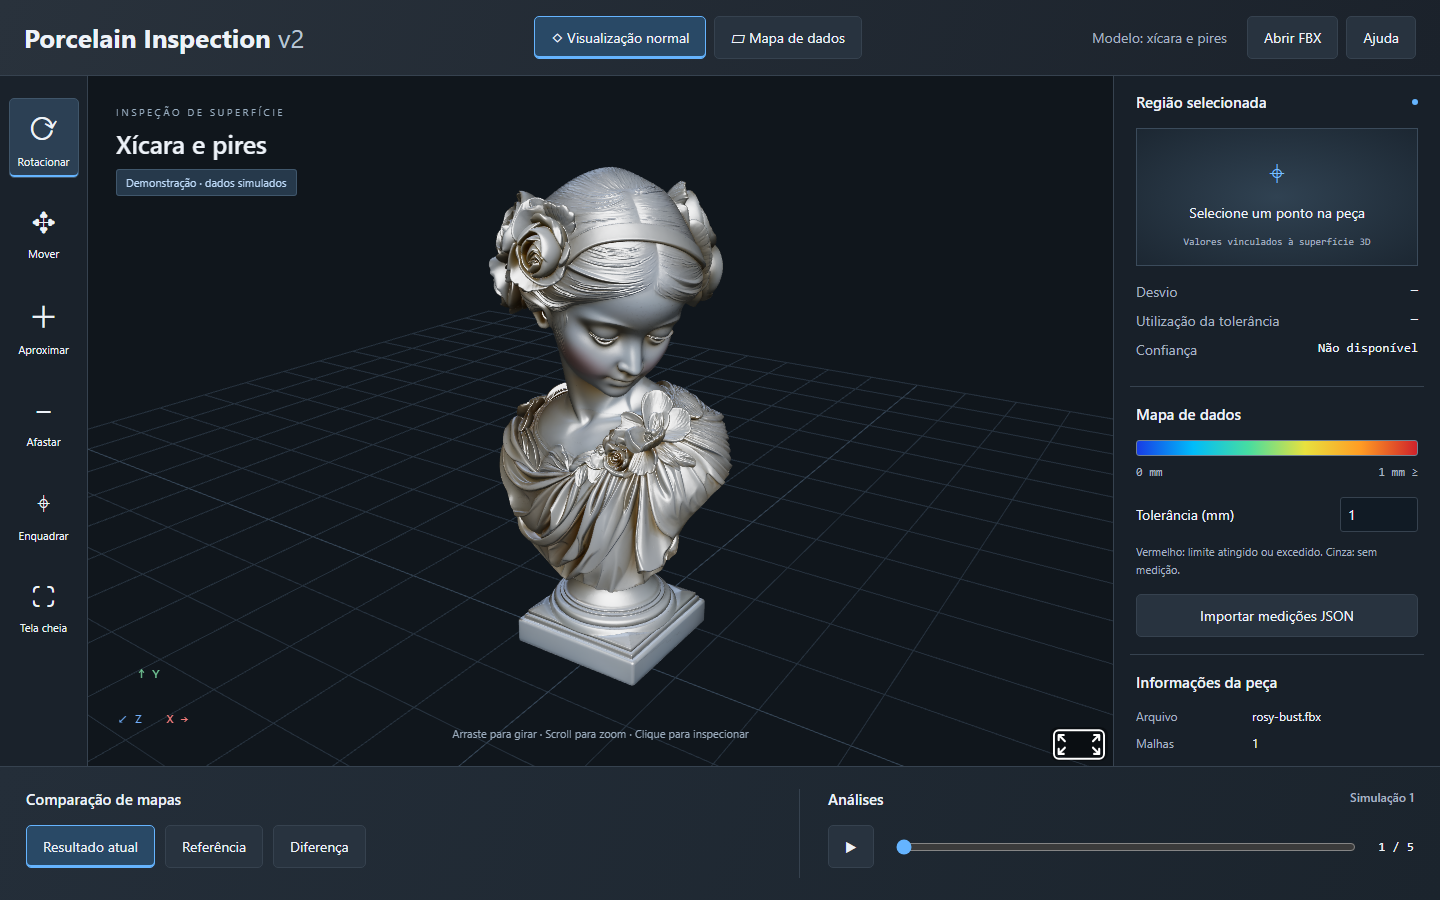
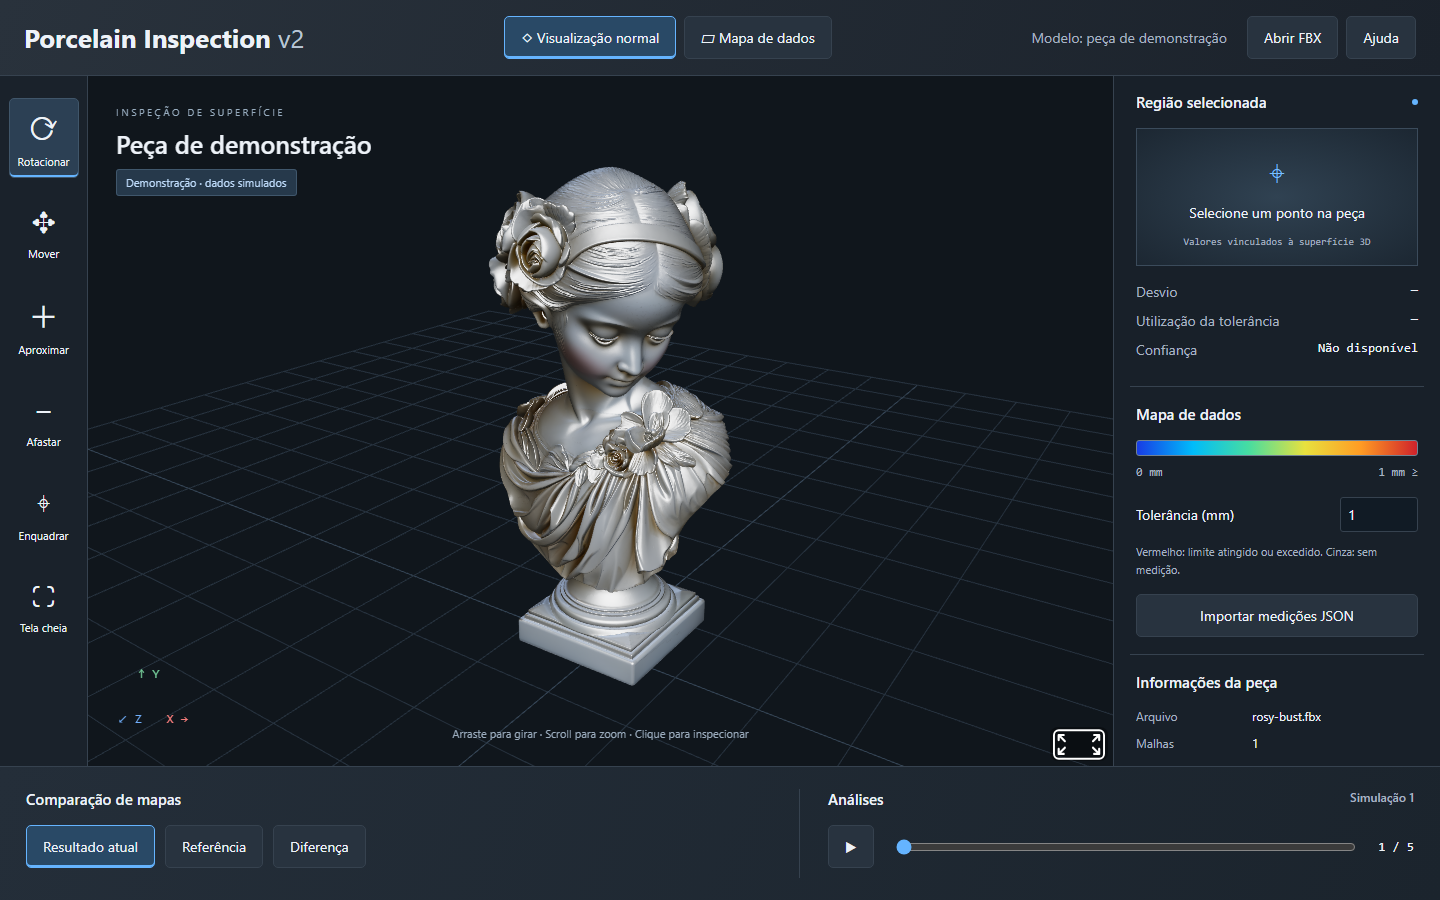
Use generic piece names throughout the viewer

Changed region(s): [[0.3438, 0.0, 0.5938, 0.0622], [0.0625, 0.1556, 0.25, 0.1867], [0.7188, 0.0311, 0.8438, 0.0622]]

diff --git a/index.html b/index.html
@@ -2,15 +2,15 @@
 <html lang="pt-BR">
 <head><meta charset="utf-8"><meta name="viewport" content="width=device-width,initial-scale=1"><title>Porcelain Inspection v2</title><link rel="stylesheet" href="css/main.css"><script src="assets/vendor/aframe.min.js"></script><script type="module" src="js/app.js"></script></head>
 <body>
-<header><a class="brand" href="./">Porcelain Inspection <span>v2</span></a><nav aria-label="Visualização"><button data-mode="normal">◇ Visualização normal</button><button data-mode="heat" class="active">▱ Mapa de dados</button></nav><div class="header-actions"><span class="model-name">Modelo: xícara e pires</span><button id="open-model" title="Abrir modelo FBX">Abrir FBX</button><button id="help">Ajuda</button></div></header>
+<header><a class="brand" href="./">Porcelain Inspection <span>v2</span></a><nav aria-label="Visualização"><button data-mode="normal">◇ Visualização normal</button><button data-mode="heat" class="active">▱ Mapa de dados</button></nav><div class="header-actions"><span class="model-name">Modelo: peça de demonstração</span><button id="open-model" title="Abrir modelo FBX">Abrir FBX</button><button id="help">Ajuda</button></div></header>
 <main><aside class="tools" aria-label="Ferramentas"><button data-tool="rotate" class="active"><b>⟳</b>Rotacionar</button><button data-tool="pan"><b>✥</b>Mover</button><button id="zoom-in"><b>＋</b>Aproximar</button><button id="zoom-out"><b>−</b>Afastar</button><button id="reset"><b>⌖</b>Enquadrar</button><button id="fullscreen"><b>⛶</b>Tela cheia</button></aside>
 <section class="stage" id="stage" aria-label="Visualizador interativo da peça 3D" tabindex="0">
 <a-scene id="scene" embedded background="color: #10161c" renderer="antialias: true; colorManagement: true; toneMapping: ACESFilmic" vr-mode-ui="enabled: false" loading-screen="enabled: false" device-orientation-permission-ui="enabled: false">
 <a-entity light="type: hemisphere; color: #e4efff; groundColor: #48515c; intensity: 2"></a-entity><a-entity light="type: directional; intensity: 2.5" position="3 6 5"></a-entity><a-entity light="type: directional; color: #a4c7ff; intensity: 1" position="-4 3 -4"></a-entity><a-entity id="model-root"></a-entity><a-entity id="camera" camera="fov: 40; near: 0.01; far: 1000" look-controls="enabled: false" wasd-controls="enabled: false"></a-entity></a-scene>
-<div class="stage-heading"><span class="eyebrow">INSPEÇÃO DE SUPERFÍCIE</span><h1>Xícara e pires</h1><span class="badge" id="source">Demonstração · dados simulados</span></div><div id="status" role="status">Carregando FBX…</div><div id="point-label" hidden></div><div class="axis"><span class="axis-y">↑ Y</span><span class="axis-z">↙ Z</span><span class="axis-x">X →</span></div><p class="stage-help">Arraste para girar · Scroll para zoom · Clique para inspecionar</p></section>
+<div class="stage-heading"><span class="eyebrow">INSPEÇÃO DE SUPERFÍCIE</span><h1>Peça de demonstração</h1><span class="badge" id="source">Demonstração · dados simulados</span></div><div id="status" role="status">Carregando FBX…</div><div id="point-label" hidden></div><div class="axis"><span class="axis-y">↑ Y</span><span class="axis-z">↙ Z</span><span class="axis-x">X →</span></div><p class="stage-help">Arraste para girar · Scroll para zoom · Clique para inspecionar</p></section>
 <aside class="inspector"><section><div class="section-title"><h2>Região selecionada</h2><span class="live-dot"></span></div><div class="selection-preview"><span id="selection-symbol">⌖</span><p id="selection-name">Selecione um ponto na peça</p><small id="coordinates">Valores vinculados à superfície 3D</small></div><dl class="readings"><div><dt>Desvio</dt><dd id="value">—</dd></div><div><dt>Utilização da tolerância</dt><dd id="severity">—</dd></div><div><dt>Confiança</dt><dd id="confidence">Não disponível</dd></div></dl></section>
 <section><h2>Mapa de dados</h2><div class="gradient" id="gradient"></div><div class="legend"><span id="legend-low">0 mm</span><span id="legend-high">1 mm ≥</span></div><label class="field">Tolerância (mm)<input id="tolerance" type="number" min="0.001" step="0.1" value="1"></label><p class="muted">Vermelho: limite atingido ou excedido. Cinza: sem medição.</p><button id="open-data" class="wide">Importar medições JSON</button></section>
-<section><h2>Informações da peça</h2><dl class="metadata"><dt>Arquivo</dt><dd id="filename">xicara-pires-de-madeira.fbx</dd><dt>Malhas</dt><dd id="meshes">—</dd><dt>Unidade de inspeção</dt><dd>mm</dd><dt>Escala física</dt><dd>Requer calibração</dd><dt>Dados</dt><dd id="data-kind">Simulação determinística</dd></dl></section></aside></main>
+<section><h2>Informações da peça</h2><dl class="metadata"><dt>Arquivo</dt><dd id="filename">peca-demonstracao.fbx</dd><dt>Malhas</dt><dd id="meshes">—</dd><dt>Unidade de inspeção</dt><dd>mm</dd><dt>Escala física</dt><dd>Requer calibração</dd><dt>Dados</dt><dd id="data-kind">Simulação determinística</dd></dl></section></aside></main>
 <footer><div class="comparison"><h2>Comparação de mapas</h2><div class="button-group"><button data-compare="current" class="active">Resultado atual</button><button data-compare="reference">Referência</button><button data-compare="difference">Diferença</button></div></div><div class="timeline"><h2>Análises <span id="frame-name">Simulação 1</span></h2><div><button id="play" aria-label="Reproduzir análises">▶</button><input id="frame" type="range" min="0" max="4" value="0" step="1" aria-label="Análise selecionada"><output id="frame-count">1 / 5</output></div></div></footer>
 <input id="model-file" type="file" accept=".fbx" hidden><input id="data-file" type="file" accept=".json,application/json" hidden>
 <dialog id="help-dialog"><h2>Inspeção da peça</h2><p>Arraste para rotacionar. Use Mover para deslocar a câmera. Scroll ou os botões controlam o zoom. Clique na peça para consultar um ponto. Setas giram, +/− aproximam e R enquadra.</p><p>O mapa inicial usa valores simulados em milímetros e não identifica defeitos reais. Importe medições conforme o formato descrito no README. A tolerância deve vir da especificação da peça.</p><button id="close-help">Fechar</button></dialog>

diff --git a/js/app.js b/js/app.js
@@ -29,7 +29,7 @@ function updateSelection(){if(!selected)return;const {m,i}=selected,v=shownValue
 function updateLabel(){if(!selected||!camera())return;const p=marker.position.clone().project(camera());$('point-label').hidden=p.z>1||p.z< -1;$('point-label').style.left=`${(p.x+1)*stage.clientWidth/2+14}px`;$('point-label').style.top=`${(1-p.y)*stage.clientHeight/2-25}px`;}
 function reset(){yaw=.6;pitch=.35;distance=5;target.set(0,0,0);updateCamera();}
 async function loadModel(buffer,name){$('status').textContent='Carregando e preparando a geometria…';try{
- const loaded=buffer?new FBXLoader().parse(buffer,''):await new FBXLoader().loadAsync('assets/models/xicara-pires-de-madeira.fbx');
+ const loaded=buffer?new FBXLoader().parse(buffer,''):await new FBXLoader().loadAsync('assets/models/peca-demonstracao.fbx');
  if(model){root.removeObject3D('mesh');model.traverse(o=>{o.geometry?.dispose();if(o.isMesh){for(const mat of new Set([].concat(o.userData.original||o.material,o.userData.heat||[]))){for(const val of Object.values(mat))if(val?.isTexture)val.dispose();mat.dispose();}}});}
  model=loaded;meshes=[];const box=new T.Box3().setFromObject(model),size=box.getSize(new T.Vector3()),center=box.getCenter(new T.Vector3()),extent=Math.max(size.x,size.y,size.z);if(!Number.isFinite(extent)||extent<=0)throw new Error('Geometria vazia.');const scale=2.6/extent;model.scale.multiplyScalar(scale);model.position.sub(center.multiplyScalar(scale));root.setObject3D('mesh',model);model.updateMatrixWorld(true);
  model.traverse(o=>{if(o.isMesh){o.geometry=o.geometry.clone();o.userData.original=o.material;o.userData.heat=new T.MeshStandardMaterial({vertexColors:true,side:T.DoubleSide,roughness:.85,metalness:0});meshes.push(o);}});
@@ -47,4 +47,4 @@ $('tolerance').oninput=()=>applyMap();$('zoom-in').onclick=()=>zoom(.85);$('zoom
 $('frame').oninput=()=>{frame=Number($('frame').value);applyMap();};function stop(){clearInterval(timer);timer=null;$('play').textContent='▶';$('play').setAttribute('aria-label','Reproduzir análises');}$('play').onclick=()=>{if(timer){stop();return;}$('play').textContent='Ⅱ';$('play').setAttribute('aria-label','Pausar análises');timer=setInterval(()=>{frame=(frame+1)%(Number($('frame').max)+1);$('frame').value=frame;applyMap();},1500);};
 $('open-model').onclick=()=>$('model-file').click();$('model-file').onchange=async e=>{const f=e.target.files[0];if(f){stop();await loadModel(await f.arrayBuffer(),f.name);}e.target.value='';};$('open-data').onclick=()=>$('data-file').click();$('data-file').onchange=async e=>{const f=e.target.files[0];if(!f)return;try{if(!meshes.length)throw new Error('Carregue uma peça primeiro.');const data=validateDataset(JSON.parse(await f.text()),meshes);stop();dataset=data;frame=0;comparison='current';$('frame').max=data.frames.length-1;$('frame').value=0;$('source').textContent='Medições importadas · '+f.name;$('data-kind').textContent='Medições importadas';document.querySelectorAll('[data-compare]').forEach(b=>b.classList.toggle('active',b.dataset.compare==='current'));$('status').textContent='';applyMap();}catch(err){$('status').textContent='Falha ao importar: '+err.message;}e.target.value='';};
 $('help').onclick=()=>$('help-dialog').showModal();$('close-help').onclick=()=>$('help-dialog').close();new ResizeObserver(updateLabel).observe(stage);
-function init(){scene.object3D.add(marker);scene.object3D.add(new T.GridHelper(12,24,0x354556,0x26323e));scene.object3D.children.at(-1).position.y=-1.4;loadModel(null,'xicara-pires-de-madeira.fbx');}if(scene.hasLoaded)init();else scene.addEventListener('loaded',init,{once:true});
+function init(){scene.object3D.add(marker);scene.object3D.add(new T.GridHelper(12,24,0x354556,0x26323e));scene.object3D.children.at(-1).position.y=-1.4;loadModel(null,'peca-demonstracao.fbx');}if(scene.hasLoaded)init();else scene.addEventListener('loaded',init,{once:true});
